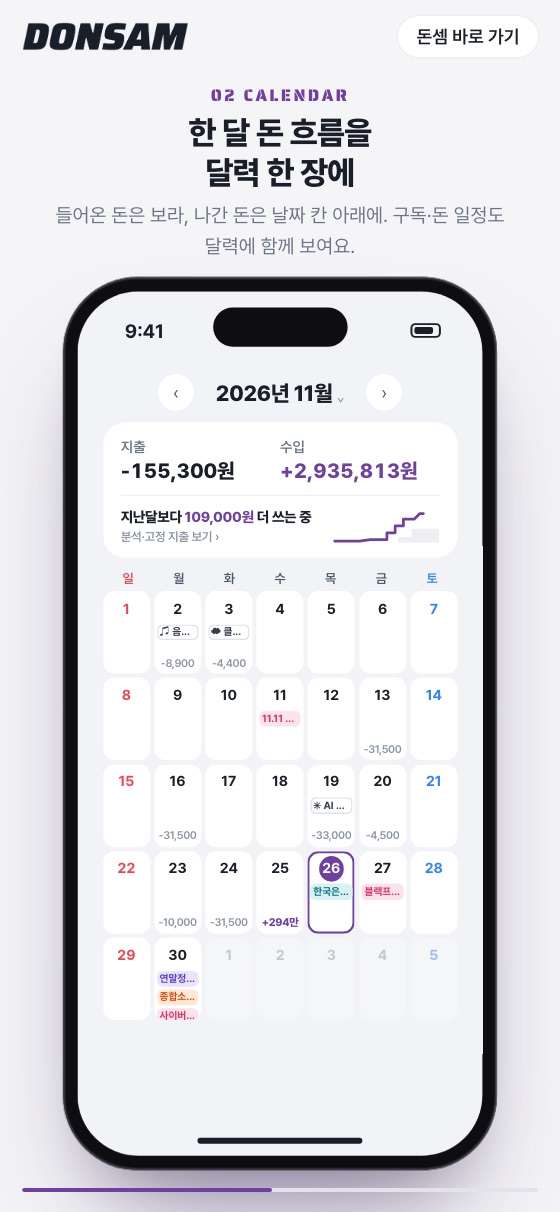
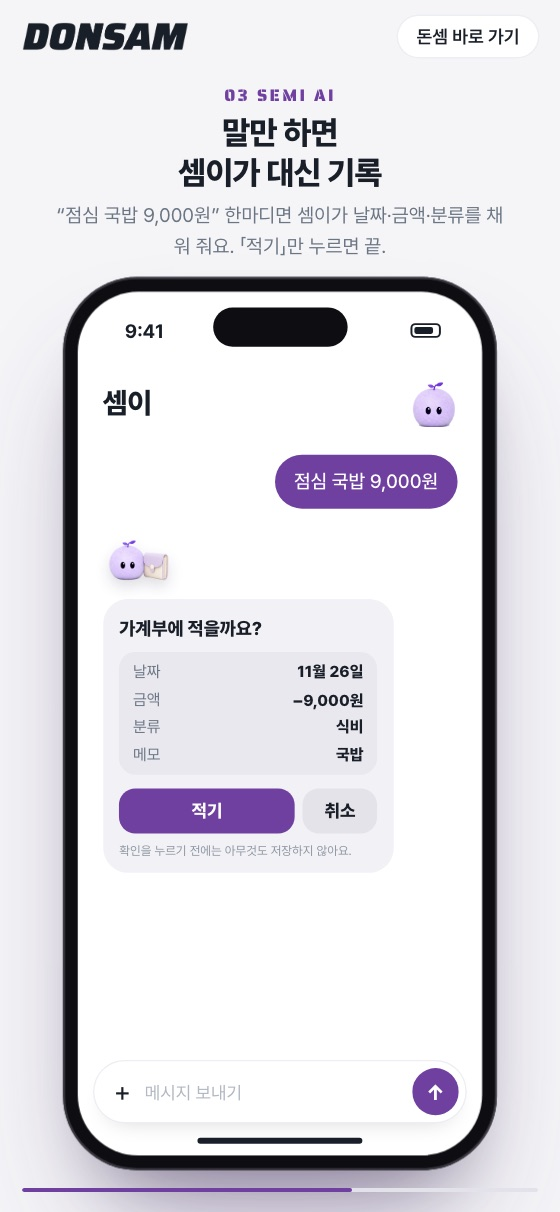
Add files via upload

diff --git a/intro/index.html b/intro/index.html
@@ -162,6 +162,9 @@ img{display:block}
 @keyframes sdot{0%,20%{opacity:.15}40%,100%{opacity:1}}
 .cc{align-self:flex-start;width:82%;border-radius:18px;background:#f2f2f5;padding:13px 12px 11px;opacity:0;transform:translateY(10px);transition:opacity .35s,transform .45s cubic-bezier(.2,.8,.2,1)}
 .cc.on{opacity:1;transform:none}
+.cpic{align-self:flex-start;height:0;opacity:0;transform:scale(.6);transition:opacity .3s,transform .4s cubic-bezier(.2,1.5,.4,1),height .3s;margin-bottom:-6px;overflow:visible}
+.cpic.on{height:52px;opacity:1;transform:none}
+.cpic img{width:52px;height:52px;object-fit:contain;filter:drop-shadow(0 5px 5px rgba(30,20,50,.14))}
 .cc>b{display:block;font-size:13.5px;font-weight:800}
 .cc dl{margin:9px 0 10px;padding:8px 10px;border-radius:12px;background:#e8e8ed;display:grid;gap:6px}
 .cc dl div{display:flex;justify-content:space-between;font-size:11.5px}.cc dt{color:#6b7684}.cc dd{font-weight:800}
@@ -304,6 +307,7 @@ img{display:block}
       <div class="chat">
         <div class="bub me" id="c1">점심 국밥 9,000원</div>
         <div class="bub they sr" id="c2"><img src="/img/semi-searching.png" alt=""><span>셈이가 찾아보고 있어요<i>.</i><i>.</i><i>.</i></span></div>
+        <div class="cpic" id="c3p"><img src="/img/semi/wallet.png" alt="" width="52" height="52"></div>
         <div class="cc" id="c3"></div>
       </div>
       <div class="cin"><b>+</b><span>메시지 보내기</span><i>↑</i></div>
@@ -403,7 +407,7 @@ function frame(){
   // 셈이: 보내기 → 찾아보는 중 → 가계부에 적을까요? 카드 → 적기 → 적었어요
   const s2=b>2?1:b<2?0:q;
   $('c1').classList.toggle('on',s2>.08);$('c2').classList.toggle('on',s2>.2&&s2<=.4);$('c2').style.display=s2>.4?'none':'';
-  $('c3').classList.toggle('on',s2>.4);
+  $('c3').classList.toggle('on',s2>.4);$('c3p').classList.toggle('on',s2>.4);
   const st=s2>=.68?2:s2>.6?1:0;if(st!==window._cs){window._cs=st;$('c3').innerHTML=st==2?'<b>적었어요 ✓</b><p>이번 달 지출은 지금까지 164,300원이에요.</p><a>캘린더 보기 ›</a>':'<b>가계부에 적을까요?</b><dl><div><dt>날짜</dt><dd>11월 26일</dd></div><div><dt>금액</dt><dd>−9,000원</dd></div><div><dt>분류</dt><dd>식비</dd></div><div><dt>메모</dt><dd>국밥</dd></div></dl><div class="bt"><button type="button" class="ok'+(st==1?' press':'')+'" tabindex="-1">적기</button><button type="button" tabindex="-1">취소</button></div><small>확인을 누르기 전에는 아무것도 저장하지 않아요.</small>'}
   // 혜택: 미션을 하면 ₩ 받기 → 누르면 받기 완료 +10P
   const s3=b<3?0:q;let gotN=0,okN=0;

diff --git a/app.js b/app.js
@@ -3880,7 +3880,7 @@ function semiTodos() {
       }
       const face = talk ? 'wink' : did ? did.face : my ? 'default' : hits.length ? 'happy' : 'worry'; // 답을 찾으면 웃고, 못 찾으면 고민해요
       // 11-27: 요청에 어울리는 셈이 그림을 답 위에 붙여요 (커피면 커피 셈이, 집이면 집 셈이…)
-      const PICK = [[/커피|카페|라떼|음료/, 'coffee'], [/쇼핑|샀어|구매|할인|쿠팡|옷/, 'bag'], [/나눠|더치|정산|n빵|엔빵/, 'wallet'], [/월세|전세|집|아파트|부동산|청약|재건축|재개발/, 'house'], [/대출|빚|갚/, 'key'],
+      const PICK = [[/커피|카페|라떼|음료/, 'coffee'], [/점심|저녁|아침|밥|식비|국밥|배달|치킨|외식/, 'wallet'], [/쇼핑|샀어|구매|할인|쿠팡|옷/, 'bag'], [/나눠|더치|정산|n빵|엔빵/, 'wallet'], [/월세|전세|집|아파트|부동산|청약|재건축|재개발/, 'house'], [/대출|빚|갚/, 'key'],
         [/주식|ETF|투자|수익률|코인|펀드/, 'chart'], [/배당/, 'pouch'], [/적금|예금|저축|모으|모아/, 'piggy'], [/연봉|월급|실수령|급여|세후/, 'briefcase'], [/연말정산|세금|세액|소득세|부가세|취득세|양도세/, 'scroll'],
         [/숨은|환급|돌려받/, 'search'], [/퇴직|실업|해고/, 'umbrella'], [/연금|노후|은퇴/, 'cushion'], [/고정지출|매달|구독|결제일|결제는|다음 결제/, 'calendar'], [/언제|며칠|D-?day|마감/i, 'clock'],
         [/순자산|자산/, 'crown'], [/목표/, 'rocket'], [/상위|순위|몇 ?%/, 'medal'], [/퀴즈|공부|배우/, 'grad'], [/알림|알려줘/, 'bell'], [/고마|감사|사랑|최고/, 'flower'], [/안녕|하이|반가|ㅎㅇ/, 'wave'],

diff --git a/sw.js b/sw.js
@@ -1,6 +1,6 @@
 // 돈셈 서비스 워커: 인터넷이 끊겨도 가계부와 계산기가 열리게, 사이트 파일을 기기에 보관해요.
 // 사이트를 고쳐서 올릴 때 VERSION을 바꾸면, 예전 보관 파일을 지우고 새로 받아요.
-const VERSION = 'donsem-2026-11-27-340';
+const VERSION = 'donsem-2026-11-27-341';
 const CORE = ['/', '/budget/', '/assets/', '/fixed/', '/calculators/', '/my/', '/quiz/', '/money-type/', '/no-spend/', '/collection/', '/money-calendar/', '/style.css', '/app.js', '/budget.js', '/assets.js', '/pro.js', '/fixed.js', '/vt.js', '/my.js', '/quiz.js', '/quiz-data.js', '/money-type.js', '/no-spend.js', '/collection.js', '/money-calendar.js', '/hidden-money.js', '/real-estate.js', '/redev.js', '/favicon.svg', '/favicon.ico', '/favicon-32.png', '/favicon-96.png', '/logo-donsam.png', '/logo-d.png', '/icon-192.png', '/manifest.webmanifest', '/kb.json'];
 
 self.addEventListener('install', e => {
